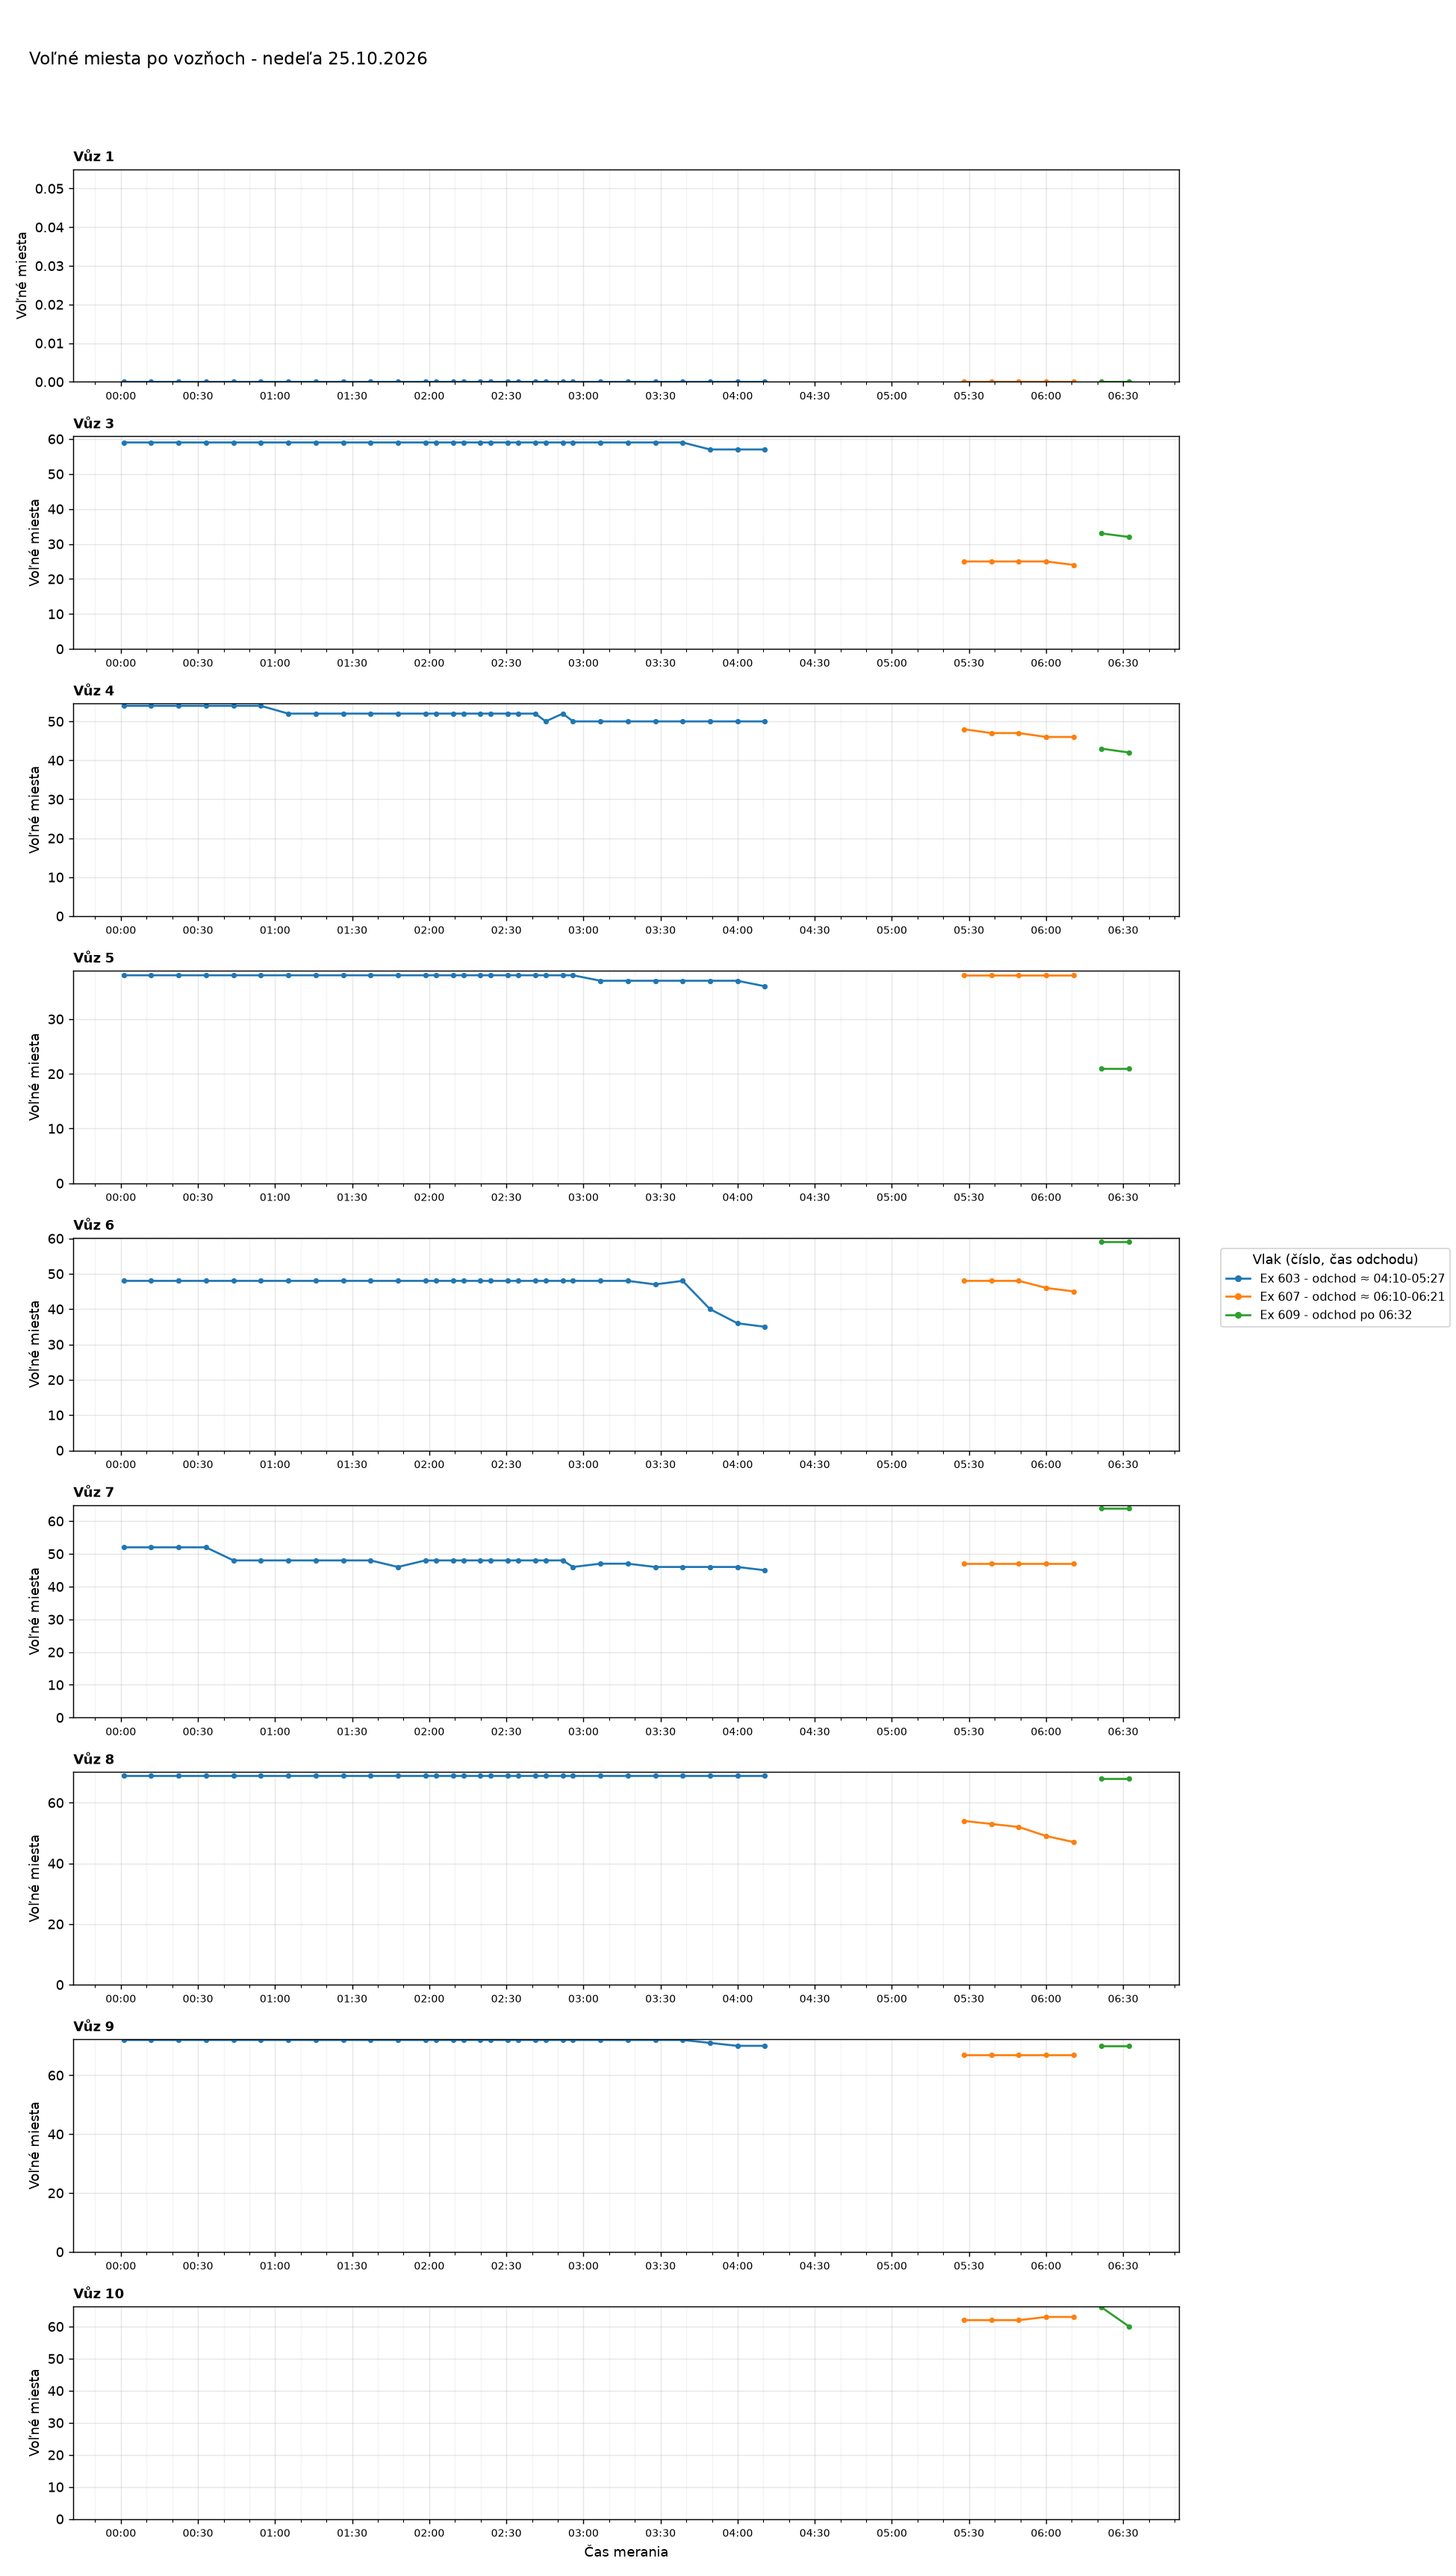
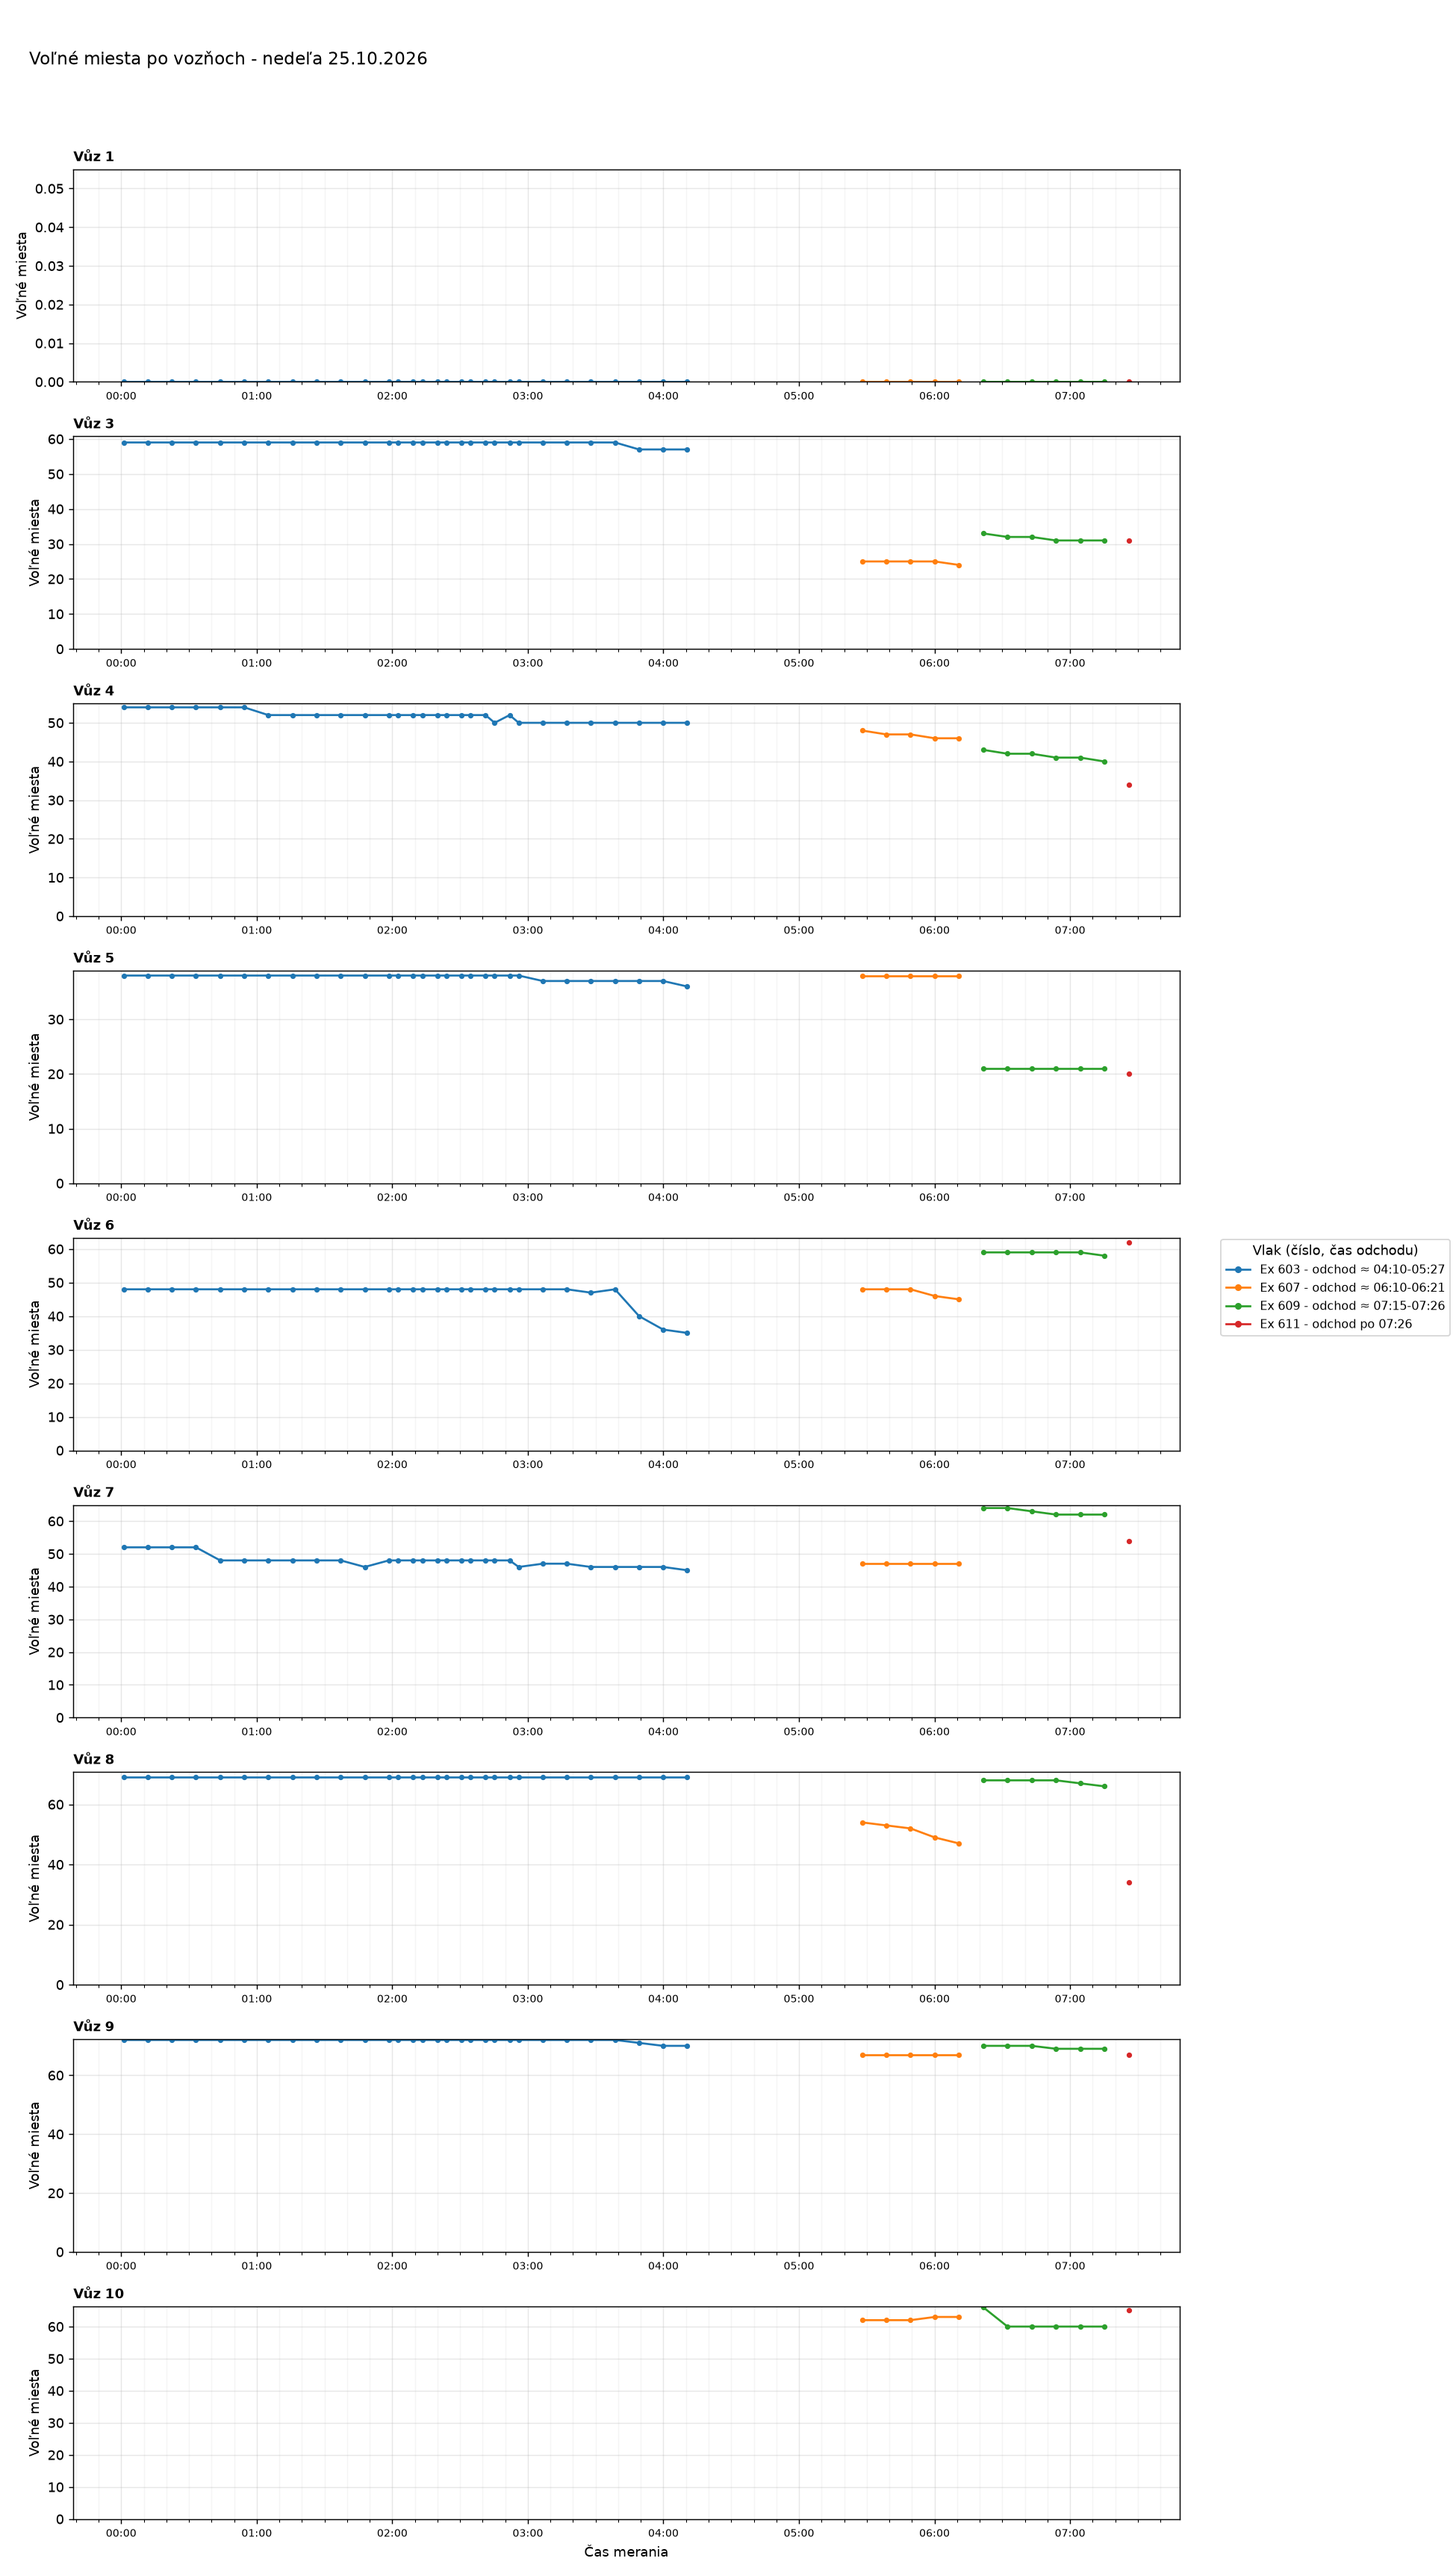
Aktualizácia grafov 2026-10-25 07:37

diff --git a/index.html b/index.html
@@ -35,7 +35,7 @@ h2.oddiel{margin:36px 0 0;font-size:1.4rem}
 <body>
 <main>
 <h1>Voľné miesta vo vlakoch</h1>
-<p class="muted">Posledné meranie: 25.10.2026 06:32 ·
+<p class="muted">Posledné meranie: 25.10.2026 07:26 ·
 <a href="data/obsadenost_data.csv">stiahnuť dáta (CSV)</a></p>
 <nav class="nav"><a href="#suhrn">Súhrn</a><a href="#statistiky">Štatistiky</a><a href="#historia">História grafov</a></nav>
 
@@ -44,7 +44,7 @@ h2.oddiel{margin:36px 0 0;font-size:1.4rem}
 <div class="tablewrap"><table>
 <thead><tr><th>Deň</th><th>Meraní</th><th>Vlakov</th><th>Čas meraní</th></tr></thead>
 <tbody>
-<tr><td><a href="#d2026-10-25">nedeľa 25.10.2026</a></td><td>37</td><td>3</td><td>00:01-06:32</td></tr>
+<tr><td><a href="#d2026-10-25">nedeľa 25.10.2026</a></td><td>42</td><td>4</td><td>00:01-07:26</td></tr>
 <tr><td><a href="#d2026-10-24">sobota 24.10.2026</a></td><td>98</td><td>14</td><td>00:10-23:50</td></tr>
 <tr><td><a href="#d2026-10-23">piatok 23.10.2026</a></td><td>64</td><td>13</td><td>07:25-23:49</td></tr>
 <tr><td><a href="#d2026-10-22">štvrtok 22.10.2026</a></td><td>80</td><td>11</td><td>00:08-16:10</td></tr>
